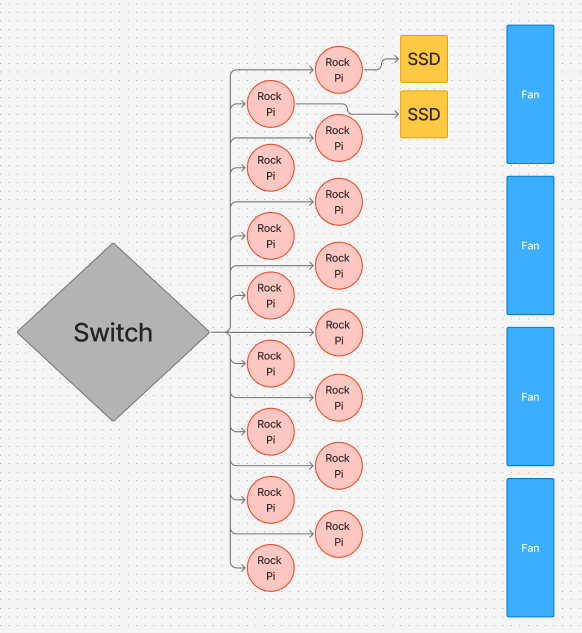
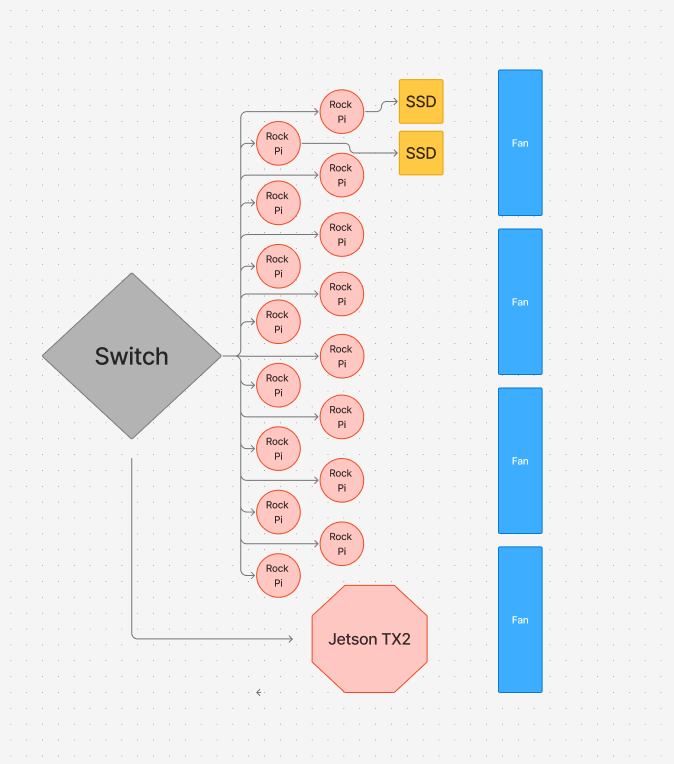
updated ucsd team 1

diff --git a/src/teams/ucsd1.md b/src/teams/ucsd1.md
@@ -14,7 +14,8 @@
   - They are connected to our switch via a cat6 ethernet cable  
   - We power the Rock Pis via USB-C power cables  
 - 2x MV-V7E500 500GB SSDs (1 TB total)   
-  - 1 SSD will be on the login node, while the other will be on a different node (we may call this the secondary login node) 
+  - 1 SSD will be on the login node, while the other will be on a different node (we may call this the secondary login node)   
+- Jetson TX2 
 
 ### **Power monitoring**
 
@@ -29,7 +30,8 @@ During the early stages, we will set up node\_exporter on all the nodes in our c
 | MV-V7E500 500GB SSD | 2 |  | $79.00 | $158.00 |
 | Enclosure (DIY) | 1 | 0 | $79.92 | $79.92 |
 | Fan | 4 | 1.56 | 7.90 | $31.6 |
-| **TOTAL COST** |  |  |  | $3866.92 |
+| Jetson TX2  | 1 | 10W | $549.00 | $549.00 |
+| **TOTAL COST** |  |  |  | $4415.92 |
 
 ## **Software:**
 

diff --git a/src/SUMMARY.md b/src/SUMMARY.md
@@ -17,8 +17,8 @@
 <!-- - [Schedule](./sched.md) -->
 - [Initial Cluster Setup](./setup.md)
 - [HPL Rules and Validation](hpl.md)
-- [MDTest Rules and Validation](mdtest.md)
 - [D-LlAMA 3 8B Rules and Validation](./dllama.md)
+- [MDTest Rules and Validation](mdtest.md)
 - [IQ Tree Rules and Validation](./iqtree.md)
 - [Mystery Application Rules and Validation](./mystery.md)
 - [Sysadmin](./sysadmin.md)

diff --git a/src/grading.md b/src/grading.md
@@ -5,7 +5,7 @@ highest for that given application, i.e. if the highest benchmark result for
 HPL is 160 GFLOP/s the scores for every other team will be 10\*(their score)/
 (160 GFLOP/s).
 
-| Application | Weight | Normalized |
+| Application | Weight | Normalised |
 |-------------|--------| ---------- |
 |HPL          | 10.8%  |      x     |
 |MDTest       | 10.8%  |            |

diff --git a/src/teams/ucsc.md b/src/teams/ucsc.md
@@ -2,6 +2,8 @@
 
 ## University of California, Santa Cruz
 
+<img src="./logos/ucsc.png" alt="UCSC Logo" height="200"/>
+
 ## Diagram
 
 ## Hardware
